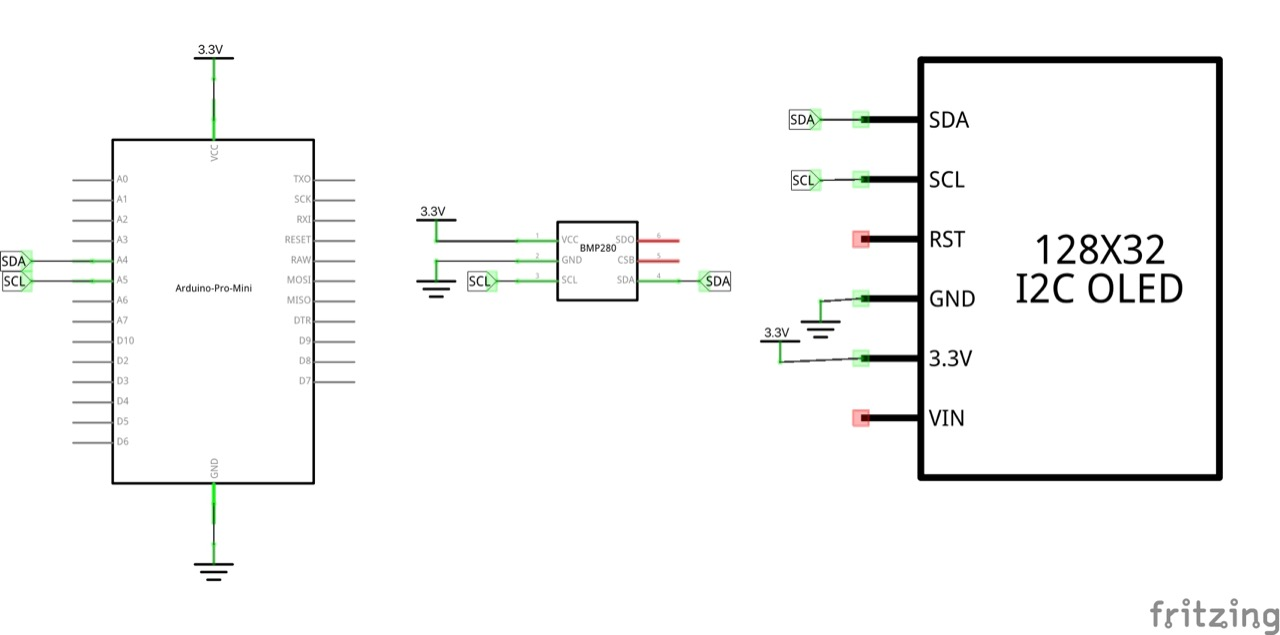
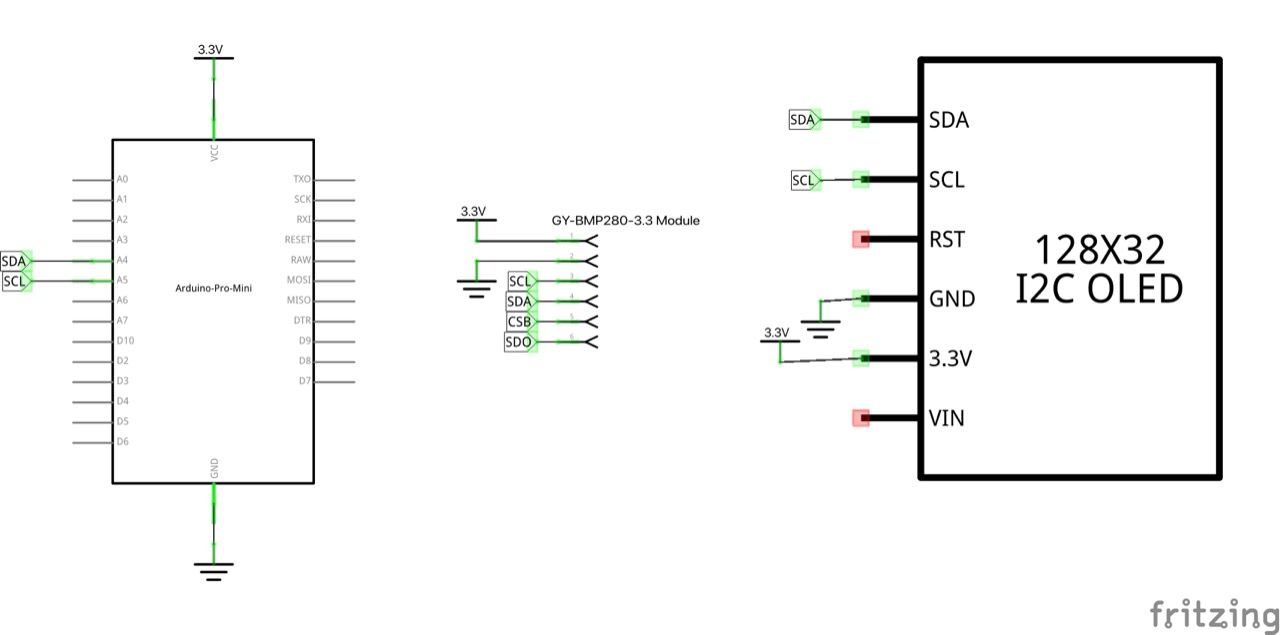
update schematics

Changed region(s): [[0.3125, 0.3291, 0.5938, 0.5685]]

diff --git a/Electronics101/BMP280/Module/README.md b/Electronics101/BMP280/Module/README.md
@@ -56,7 +56,7 @@ Specifications:
     * CSB LOW : SPI
     * CSB HIGH (VDDIO): I²C
 
-### About the BMP280 Module
+### About the GY-BMP280-3.3 Module
 
 Some modules are designed for 3.3V or 5V operation, but the module I have exposes the BMP280 directly and therefore must be used within the BMP280's voltage limits (4.25V max).
 
@@ -101,6 +101,8 @@ Designed with Fritzing: see [Module.fzz](./Module.fzz).
 ![bb](./assets/Module_bb.jpg?raw=true)
 
 ![schematic](./assets/Module_schematic.jpg?raw=true)
+
+Connected on a breadboard with USB-Serial adapter for programming:
 
 ![bb_build](./assets/Module_bb_build.jpg?raw=true)
 
